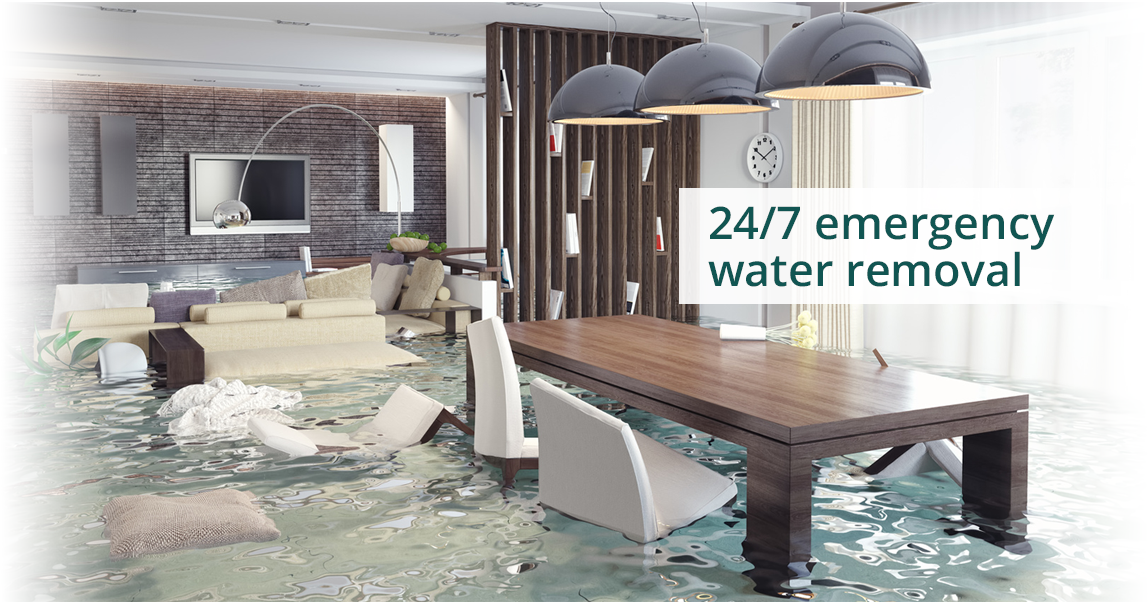
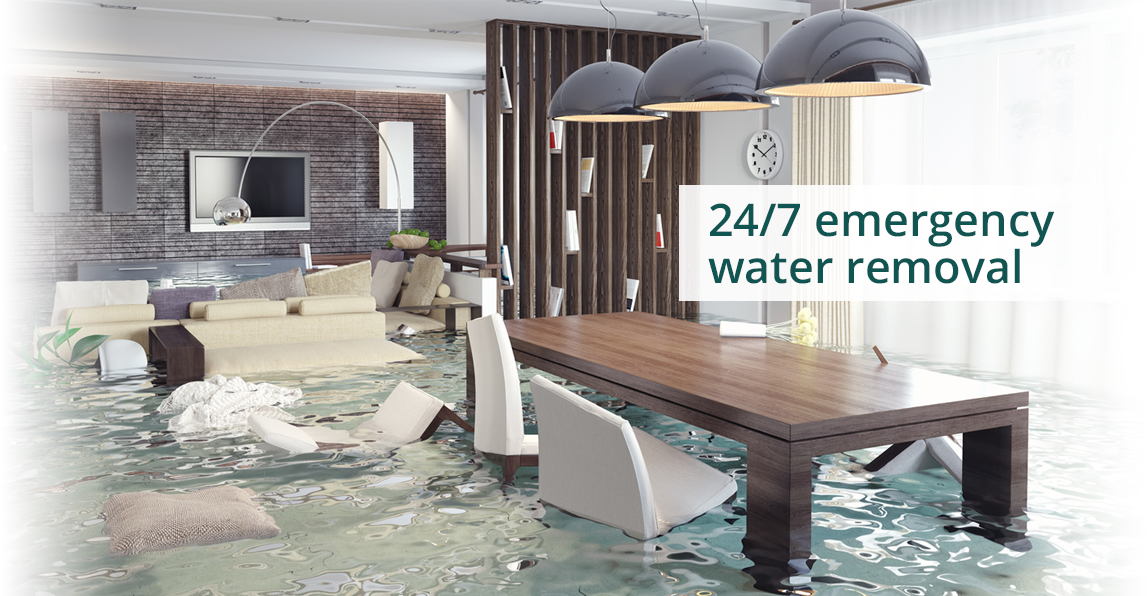
began team.html

diff --git a/index.html b/index.html
@@ -8,6 +8,7 @@
   <link rel="stylesheet" href="bower_components/bootstrap/dist/css/bootstrap.min.css">
   <link rel="stylesheet" href="bower_components/font-awesome/css/font-awesome.min.css">
   <link rel="stylesheet" href="styles/main.css">
+  
 </head>
 <body>
 <div id="wrapper">
@@ -53,6 +54,9 @@
               <span class="hidden-sm">connect with us</span>
                 <i href="facebook.com" class="fa fa-facebook fa-lg"></i>
                 <i href="twitter.com" class="fa fa-twitter fa-lg"></i>
+
+
+
               <input type="text" id="searchBox" placeholder="   search the site">
             </div>
           </form>
@@ -70,10 +74,10 @@
         <ul class="nav navbar-nav navbar-right" id="navLinkList">
           <!-- <li class="active"><a href="#">Link <span class="sr-only">(current)</span></a></li> -->
           <li><a href="#">Home</a></li>
-          <li><a href="#">Services</a></li>
-          <li><a href="#">Meet the Team</a></li>
+          <li><a href="#services">Services</a></li>
+          <li><a href="/team.html">Meet the Team</a></li>
           <li><a href="#">Testimonials</a></li>
-          <li><a href="#">Contact Us</a></li>
+          <li><a href="#contact">Contact Us</a></li>
         </ul>
       </div>
     </div>
@@ -82,42 +86,48 @@
   </nav>
 </header>
 
-<div class="topBody">
+<div class="topBody gallery">
 <img src="images/banner1.png" alt="24" class="banner img-responsive">
+<img src="images/banner2.png" alt="24" class="banner img-responsive">
 </div>
-<div class="midBody">
-  <div class="row">
-  <div class="col-md-7">
-  <p>Pine Ridge Cleaning & Restoration</p>
-  <p>Lorem ipsum dolor sit amet, consectetuer adipiscing elit. Aenean commodo ligula eget dolor. Aenean massa. Cum sociis natoque penatibus et magnis dis parturient montes, nascetur ridiculus mus. Donec quam felis, ultricies nec, pellentesque eu, pretium quis, sem. Nulla consequat massa quis enim. Donec pede justo, fringilla vel, aliquet nec, vulputate eget, arcu. In enim justo, rhoncus ut, imperdiet a, venenatis vitae, justo. Nullam dictum felis eu pede mollis pretium. Integer tincidunt. Cras dapibus. Vivamus elementum semper nisi. Aenean vulputate eleifend tellus. Aenean leo ligula, porttitor eu, consequat vitae</p>
+
+<div id="services" class="midBody">
+  <div class="container-fluid">
+  <div class="col-md-7 col-sm-7">
+  <p class="midBodyH">Pine Ridge Cleaning & Restoration</p>
+  <p class="midBodyP">Lorem ipsum dolor sit amet, consectetuer adipiscing elit. Aenean commodo ligula eget dolor. Aenean massa. </br>Cum sociis natoque penatibus et magnis dis parturient montes, nascetur ridiculus mus. Donec quam felis, ultricies nec, pellentesque eu, pretium quis, sem. Nulla consequat massa quis enim. Donec pede justo, fringilla vel, aliquet nec, vulputate eget, arcu. In enim justo, rhoncus ut, imperdiet a, venenatis vitae, justo. Nullam dictum felis eu pede mollis pretium. Integer tincidunt. Cras dapibus. Vivamus elementum semper nisi. Aenean vulputate eleifend tellus. Aenean leo ligula, porttitor eu, consequat vitae</p>
   </div>
-<div class="col-mid-5">
+<div class="col-mid-5 col-sm-5">
   <span>
   <ul>
-    <li>Water</li>
-    <li>Fire</li>
-    <li>Carpet</li>
-    <li>Upholstery</li>
-    <li>Air</li>
+    <li>Water Damage Restoration</li>
+    <li>Fire/Smoke Damage</li>
+    <li>Mold Remediation</li>
+    <li>Carpet Cleaning</li>
+    <li>Upholstery Cleaning</li>
+    <li>Tile & Grout/Stone Cleaning</li>
+    <li>Air Duct Cleaning</li>
   </ul>
 </span>
 </div>
 </div>
 </div>
 <div class="btmBody">
-  <h2>Need Help?</h2>
-  <div class="visible-lg visible-md">
-    <span>Please use the form below to contact us with questions or comments</span>
-    <span>For emergencies, please call (440) 944-3957</span>
+  <div class="container-fluid">
+
+  <p id="contact" class="btmBodyH">Need Help?</p>
+  <div id="btmText" class="visible-lg visible-md">
+    <span class="btmBodyText">Please use the form below to contact us with questions or comments.</span>
+    <span class="btmBodyNum">For emergencies, please call (440) 944-3957</span>
   </div>
-  <div class="visible-sm visible-xs">
-    <span>Please use the form below to contact us with questions or comments</span>
+  <div id="smbtmText" class="visible-sm visible-xs">
+    <span class="btmBodyText">Please use the form below to contact us with questions or comments.</span>
     </br>
-    <span>For emergencies, please call (440) 944-3957</span>
+    <span class="btmBodyNum">For emergencies, please call (440) 944-3957</span>
   </div>
   <div class="row">
     <div class="col-md-4 col-sm-4">
-      <img src="images/truck.png" alt="Pine Ridge Cleaners" class="img-responsive">
+      <img src="images/truck.png" alt="Pine Ridge Cleaners" class="img-responsive visible-lg visible-md">
     </div>
     <div class="col-md-8 col-sm-8">
       <form class="" action="index.html" method="post">
@@ -128,8 +138,13 @@
         </br>
         <input type="text" name="howcanwehelp" placeholder="how can we help you?">
       </form>
+      <button id="submitBtn" class="btn btn-default" type="button" name="button">S U B M I T</button>
+
     </div>
+    <img src="images/truck.png" alt="Pine Ridge Cleaners" class="img-responsive visible-xs visible-sm">
+
   </div>
+</div>
 
 </div>
 <div id="footer">
@@ -137,7 +152,7 @@
   <div class="container">
     <div class="row">
       <div class="col-md-5 col-sm-5 col-xs-5 footerImgs">
-        <a href="Angieslist.com"><img id="angies" src="images/Angie's-List-Logo.png" alt="Angie's List" class="img-responsive"></a>
+        <a href="Angieslist.com"><img id="angies" src="images/Angies-List-Logo.png" alt="Angie's List" class="img-responsive"></a>
         <a href="whodoyou.com"><img src="images/Who-Do-You.png" alt="Who Do You?" class="img-responsive"></a>
         <a href="betterbizzbearue.com"><img id="bbb" src="images/BBB-Logo.png" alt="BBB" class="img-responsive"></a>
 
@@ -158,6 +173,8 @@
 </div>
   <script src="bower_components/jquery/dist/jquery.min.js"></script>
   <script src="bower_components/bootstrap/dist/js/bootstrap.min.js"></script>
+
+
 
 </body>
 </html>

diff --git a/styles/main.css b/styles/main.css
@@ -10,6 +10,8 @@ body {
 	margin:0;
 	padding:0;
 	height:100%;
+  background-color:  rgb(225,222,215);
+
 }
 #wrapper {
 	min-height:100%;
@@ -126,18 +128,27 @@ body {
 
 }
 #navLinkList  li:hover{
-  background-color:hsla(120, 100%, 21%, 0.84);
+  background-color:rgb(17,85,82);
+  color: white;
   -moz-box-shadow: 1px 2px 3px rgba(0,0,0,.5);
 -webkit-box-shadow: 1px 2px 3px rgba(0,0,0,.5);
-box-shadow: 1px 2px 3px rgba(0,0,0,.5);
+box-shadow: 1px 2px 5px rgba(0,0,0,.5);
+-moz-border-radius-topleft: 10px;
+  -moz-border-radius-topright: 10px;
+  -moz-border-radius-bottomright: 0px;
+  -moz-border-radius-bottomleft: 0px;
+  -webkit-border-radius: 7px 7px;
+  border-radius: 7px 7px;
 }
-
+#navLinkList li a:hover{
+  color: rgb(225,222,215);
+}
 /* ++++++++++++++Search in Navbar++++++++++++++ */
 
 .navbar-form{
   padding: 0;
 }
-#searchBox{
+input{
   color: rgb(17,85,82);
   width: 255px;
   height: 35px;
@@ -153,6 +164,10 @@ box-shadow: 1px 2px 3px rgba(0,0,0,.5);
   position: relative;
   top: 10px;
   right: 10px;
+}
+#navSearch input{
+  background-color: rgb(231,231,230)
+
 }
 .fa{
   padding-right: 20px;
@@ -179,7 +194,104 @@ box-shadow: 1px 2px 3px rgba(0,0,0,.5);
 /*   background-image: url("../images/banner1.png");
  */
 }
+.topBody img{
+  margin-left: auto;
+    margin-right: auto;
+    width: 70%;
+}
 
+ .midBody{
+   padding: 0.01% 3%;
+   background-color: rgb(42,72,69);
+   font-family: Open Sans, sans-serif;
+   font-weight: 300;
+   color: white;
+
+ }
+ .midBodyH{
+   font-size: 2em;
+   margin-top: 50px;
+   margin-bottom: 30px;
+ }
+ .midBodyP{
+   font-size: 1em;
+   padding-right: 50px;
+ }
+ .midBody ul{
+   margin-top: 50px;
+   margin-bottom: 50px;
+ }
+.midBody ul li{
+  list-style-type: none;
+  font-weight: 400;
+  font-size: 1.3em;
+  padding: 5px 10px;
+}
+.btmBody img{
+  margin-left: auto;
+    margin-right: auto;
+}
+.btmBody{
+  margin-top: 50px;
+  margin-bottom: 50px;
+  padding: 0.01% 2%;
+  background-color:  rgb(225,222,215);
+}
+.btmBodyH{
+  padding: 15px 25px;
+  font-size: 3em;
+  font-family: Open Sans, sans-serif;
+  font-weight: 600;
+  color: rgb(17,85,82);
+  font-style: italic;
+}
+.btmBodyText{
+
+  padding: 15px 25px;
+  font-size: 1.3em;
+  font-family: Open Sans, sans-serif;
+  font-weight: 400;
+  color: rgb(17,85,82);
+}
+.btmBodyNum{
+  padding: 15px 25px;
+  white-space: nowrap;
+  font-size: 1.5em;
+  font-family: Open Sans, sans-serif;
+  font-weight: 600;
+  color: rgb(17,85,82);
+}
+.btmBody input{
+  background-color: rgb(231,231,230);
+  margin: 1%;
+  width: 47%;
+}
+.btmBody input:first-child, .btmBody input:last-child{
+  width: 96%;
+}
+.btmBody input:last-child{
+  height: 163px;
+}
+#submitBtn{
+  font-family: Open Sans, sans-serif;
+  font-weight: 600;
+  color: white;
+  font-size:1.3em;
+  float: right;
+  margin-right: 25px;
+  width: 130px;
+  height: 50px;
+  background-color: rgb(40,127,118);
+}
+#btmText{
+  margin-top: 20px;
+  margin-bottom: 30px;
+}
+#smbtmText{
+  padding-top: 10px;
+  padding-bottom: 10px;
+  text-align: center;
+  }
 /* ++++++++++++++Footer++++++++++++++ */
 
 .footer {
